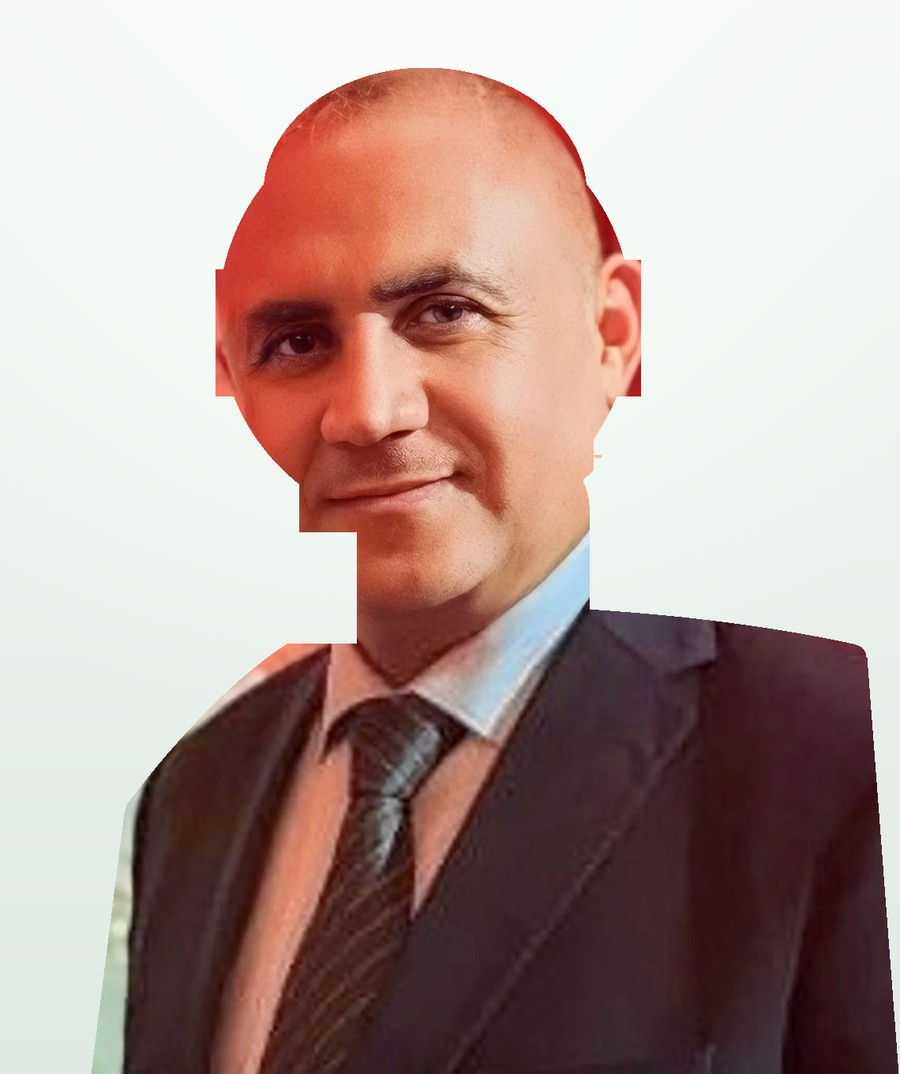
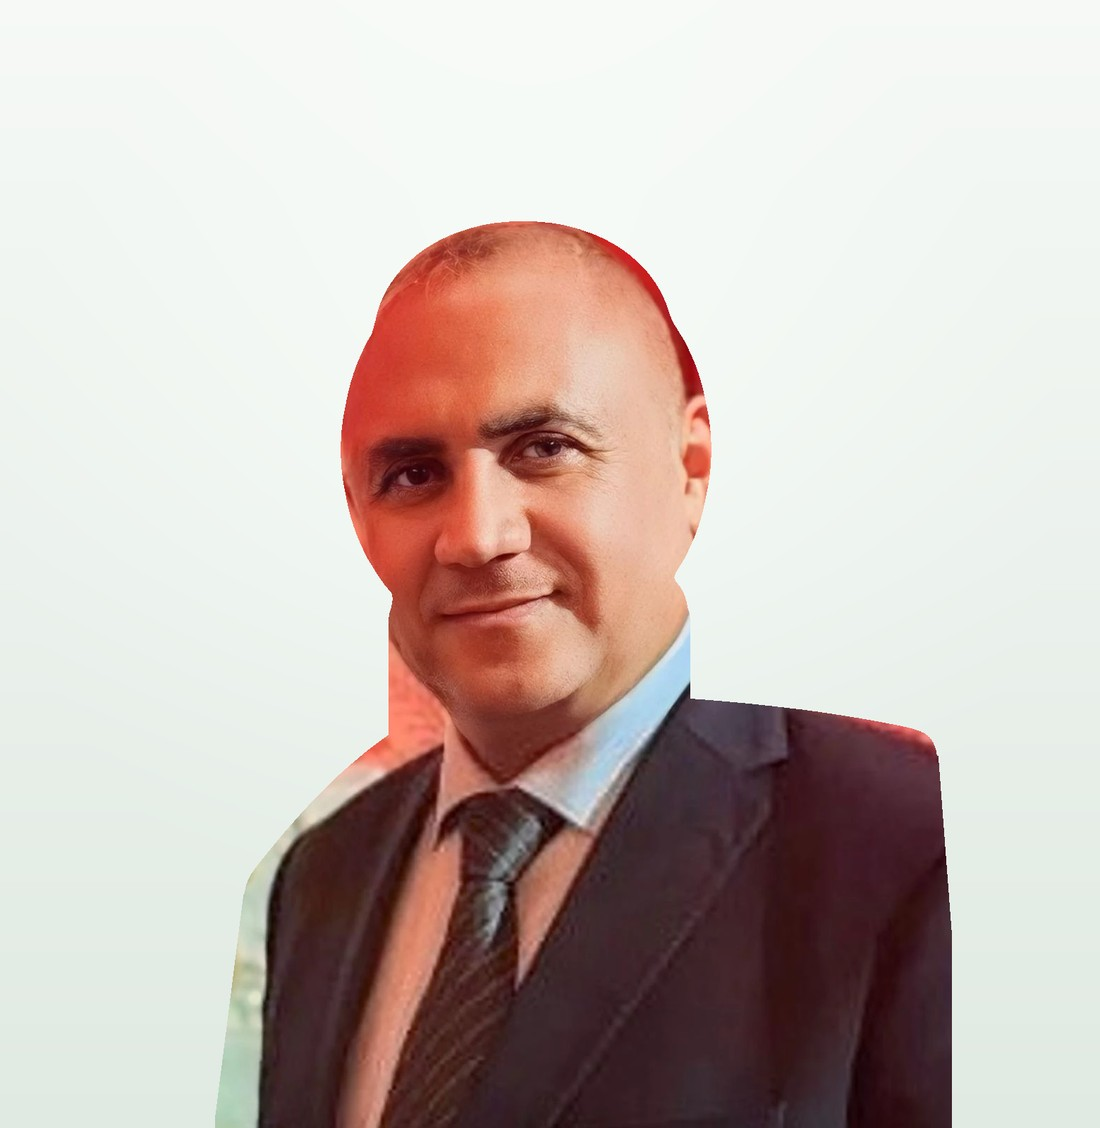
MD letter page split in two + IFC Performance Standards board
- The MD module is now a half-and-half page: his portrait fills the
  left side (regenerated on a taller studio canvas, silhouette-only
  cutout with a soft edge); the letter sits on the right on paper-
  toned background, set in Playfair Display with an italic salutation
  and a handwritten Great Vibes signature - a real letter, not a card.
- S2 'Eight standards, and what they cover' now carries the scheme the
  pack asked for: eight numbered PS tiles in two rows, each with its
  plain-words line, PS7 greyed out 'does not apply to these corridors'.
- E2E navigations moved to waitUntil load (the new Google Fonts import
  made networkidle0 flaky).

Suites green: 899 checks, 34/34 E2E.

diff --git a/src/pages/PathwayModulePage.jsx b/src/pages/PathwayModulePage.jsx
@@ -176,6 +176,49 @@ function CatQuestion({ q, revealed, onChecked }) {
 
 const LETTERS = ["a", "b", "c", "d"];
 
+// The eight IFC Performance Standards as a scannable board — two rows of
+// numbered tiles, PS7 greyed out (not applicable to these corridors), exactly
+// as the S2 pack's visual brief describes.
+const PS_TILES = [
+  { n: 1, title: "Risk management", plain: "How risks are assessed and managed" },
+  { n: 2, title: "Workers", plain: "Labour and working conditions" },
+  { n: 3, title: "Pollution & resources", plain: "Prevention, waste, efficient use" },
+  { n: 4, title: "Community", plain: "Health, safety and security" },
+  { n: 5, title: "Land & resettlement", plain: "Acquisition, compensation, livelihoods" },
+  { n: 6, title: "Biodiversity", plain: "Habitats and living resources" },
+  { n: 7, title: "Indigenous Peoples", plain: "Does not apply to these corridors", na: true },
+  { n: 8, title: "Cultural heritage", plain: "Graves, shrines, finds, sacred places" },
+];
+
+function PSGrid() {
+  return (
+    <div className="mt-5 grid grid-cols-2 gap-2.5 sm:grid-cols-4">
+      {PS_TILES.map((t) => (
+        <div
+          key={t.n}
+          className={`rounded-xl border p-3 ${
+            t.na
+              ? "border-dashed border-outline-variant bg-surface-container-low opacity-70"
+              : "border-outline-variant bg-surface-container-lowest"
+          }`}
+        >
+          <span
+            className={`mb-2 flex h-9 w-9 items-center justify-center rounded-lg text-label-md font-black ${
+              t.na ? "bg-surface-container-highest text-outline" : "bg-primary-container text-white"
+            }`}
+          >
+            PS{t.n}
+          </span>
+          <p className={`text-caption font-bold leading-snug ${t.na ? "text-on-surface-variant line-through" : "text-primary"}`}>
+            {t.title}
+          </p>
+          <p className="mt-0.5 text-caption leading-snug text-on-surface-variant">{t.plain}</p>
+        </div>
+      ))}
+    </div>
+  );
+}
+
 // The Managing Director's portrait, with an initials medallion until the
 // real photo lands at its path (public/images/dany-abboud.jpg).
 function MdPortrait({ src, name }) {
@@ -574,45 +617,67 @@ export default function PathwayModulePage() {
         </div>
       )}
 
-      <div className="rounded-2xl border border-outline-variant bg-surface-container-lowest p-stack-lg shadow-sm">
+      <div className={`rounded-2xl border border-outline-variant bg-surface-container-lowest shadow-sm ${phase === "read" && s.md ? "overflow-hidden p-0" : "p-stack-lg"}`}>
         {module.support && <SupportBanner />}
 
+        {/* The MD's letter: the page split in two — his portrait on the left,
+            the letter set like a real one on the right (serif body, script
+            signature), nothing boxy. */}
         {phase === "read" && s.md && (
-          <div key={screen} className="animate-fade-up">
-            <div className="mb-6 flex flex-col items-center gap-4 text-center sm:flex-row sm:text-left">
-              <MdPortrait src={s.portrait} name={s.name} />
-              <div>
-                <p className="text-caption font-bold uppercase tracking-[0.2em] text-secondary">{s.heading}</p>
-                <p className="mt-1 text-headline-md font-black leading-tight text-primary">{s.name}</p>
-                <p className="text-caption text-on-surface-variant">{s.role}</p>
+          <div key={screen} className="animate-fade-up grid md:grid-cols-2">
+            {/* Left — the portrait, full height */}
+            <div className="relative min-h-[380px] md:min-h-[560px]">
+              <img
+                src="/images/dany-abboud-tall.jpg"
+                alt={s.name}
+                className="absolute inset-0 h-full w-full object-cover"
+                style={{ objectPosition: "center" }}
+              />
+              <div className="absolute inset-x-0 bottom-0 bg-gradient-to-t from-primary-container/90 via-primary-container/40 to-transparent px-6 pb-5 pt-16 text-white">
+                <p className="text-headline-md font-black leading-tight">{s.name}</p>
+                <p className="text-caption text-white/85">{s.role}</p>
               </div>
             </div>
-            <div className="rounded-2xl border-l-4 border-secondary-container bg-surface-container-low p-stack-lg">
-              {s.body.map((p, i) => (
-                <p key={i} className={`mb-3 leading-relaxed text-on-surface last:mb-0 ${i === 0 ? "text-body-lg font-semibold" : "text-body-lg"}`}>
-                  {p}
+
+            {/* Right — the letter */}
+            <div className="flex flex-col justify-between bg-[#fbfaf6] px-7 py-8 md:px-10 md:py-10">
+              <div>
+                <p className="mb-6 text-caption font-bold uppercase tracking-[0.28em] text-secondary">
+                  {s.heading}
                 </p>
-              ))}
-              <p className="mt-5 text-body-lg font-black text-primary">— {s.name}</p>
-              <p className="text-caption text-on-surface-variant">{s.role}</p>
-            </div>
-            <Takeaway text={s.takeaway} />
-            <div className="mt-8 flex items-center justify-end">
-              {isLastScreen ? (
-                <button
-                  onClick={finishModule}
-                  className="flex items-center gap-2 rounded-xl bg-primary px-8 py-3 text-label-md font-bold text-on-primary transition-opacity hover:opacity-90"
+                {s.body.map((p, i) => (
+                  <p
+                    key={i}
+                    style={{ fontFamily: "'Playfair Display', Georgia, serif" }}
+                    className={
+                      i === 0
+                        ? "mb-5 text-[19px] italic leading-relaxed text-on-surface"
+                        : "mb-4 text-[16.5px] leading-[1.85] text-on-surface"
+                    }
+                  >
+                    {p}
+                  </p>
+                ))}
+                <p
+                  style={{ fontFamily: "'Great Vibes', cursive" }}
+                  className="mt-7 text-[40px] leading-none text-primary"
                 >
-                  Thank you — continue <MaterialIcon name="arrow_forward" />
-                </button>
-              ) : (
+                  {s.name.split(" ")[0]} {s.name.split(" ")[1]}
+                </p>
+                <p className="mt-1 text-caption uppercase tracking-widest text-on-surface-variant">{s.role}</p>
+              </div>
+
+              <div className="mt-8 flex items-center justify-between gap-4 border-t border-outline-variant/50 pt-5">
+                <p style={{ fontFamily: "'Playfair Display', Georgia, serif" }} className="text-[14px] italic text-on-surface-variant">
+                  Together shaping a responsible future — embrace the journey.
+                </p>
                 <button
-                  onClick={() => setScreen(screen + 1)}
-                  className="flex items-center gap-2 rounded-xl bg-primary px-8 py-3 text-label-md font-bold text-on-primary transition-opacity hover:opacity-90"
+                  onClick={isLastScreen ? finishModule : () => setScreen(screen + 1)}
+                  className="flex shrink-0 items-center gap-2 rounded-xl bg-primary px-6 py-3 text-label-md font-bold text-on-primary transition-opacity hover:opacity-90"
                 >
-                  Continue <MaterialIcon name="arrow_forward" />
+                  {isLastScreen ? "Thank you — continue" : "Continue"} <MaterialIcon name="arrow_forward" />
                 </button>
-              )}
+              </div>
             </div>
           </div>
         )}
@@ -633,6 +698,7 @@ export default function PathwayModulePage() {
                 className="mt-4 aspect-[21/9] w-full rounded-2xl object-cover shadow-sm"
               />
             )}
+            {s.psgrid && <PSGrid />}
             {s.trades && <WhereYouComeIn lines={s.trades} />}
             <JargonBuster items={s.jargon} />
             <Takeaway text={s.takeaway} />

diff --git a/src/data/osp.js b/src/data/osp.js
@@ -350,7 +350,7 @@ export const OSP_MODULES = [
       },
       {
         heading: "Eight standards, and what they cover",
-        photo: "/images/lm5.jpg",
+        psgrid: true,
         body: [
           "The rules the lenders apply are the IFC Performance Standards. IFC is the International Finance Corporation, part of the World Bank Group.",
           "There are eight, numbered 1 to 8. You will hear them called PS1 to PS8.",

diff --git a/src/index.css b/src/index.css
@@ -1,3 +1,4 @@
+@import url('https://fonts.googleapis.com/css2?family=Playfair+Display:ital,wght@0,500;0,600;1,500&family=Great+Vibes&display=swap');
 @import "tailwindcss";
 
 /* Design system ported from the Stitch export (Material-style tokens). */
